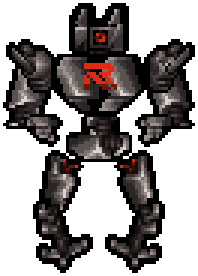
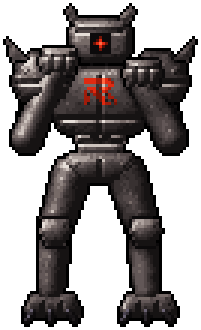
Robot: lit, gritty head-on render in a combat guard
Replaces the sprite collage. The robot is modelled as simple 3D forms
(capsule limbs, beveled armour plates, ball joints) in a combat guard,
lit by one upper-left light with specular and contact occlusion, then
quantised to a small grey/red palette with a black silhouette outline.
Grime gathers toward the feet; worn stencilled RealWare mark on the
chest; source features kept: box head with single red eye and twin
fins, spiked pauldrons, dark mechanical joints, clawed feet; 2px neck.

Claude-Session: https://claude.ai/code/session_01EWMNWsVqx69rUqnPkEUbPk

diff --git a/design/quasimorph_robot/build_robot.py b/design/quasimorph_robot/build_robot.py
@@ -1,160 +1,190 @@
-"""RealWare combat robot, head-on, built only from the source sprites' own pixels.
-Each posed segment samples the matching segment of a source sprite along its length and across
-its width (light side always upper-left), so streaks, speckle, seams, cables and joints are the
-source art. Recoloured brown->grey value for value at the end.
-usage: python3 build_robot.py <dir with n1..n5.png> <out dir>"""
+"""RealWare combat robot - head-on, combat guard, gritty lit pixel art.
+Forms are modelled as simple 3D primitives (capsules, spheres, beveled plates), lit by one light
+from the upper-left, then quantised to a small palette with a black silhouette outline.
+usage: python3 build_robot.py <out dir>"""
 import sys, math
-from PIL import Image, ImageOps
-SRC,OUT=sys.argv[1].rstrip('/')+'/',sys.argv[2].rstrip('/')+'/'
-def H(s): return tuple(int(s[i:i+2],16) for i in (0,2,4))+(255,)
-K=H('000000')
-BR=[H(c) for c in '261209 3d1f12 4f2c19 623921 704325 84512f aa6e46 cea173 e2cc98'.split()]
-BR_X=[H('502c1a'),H('8d5936')]
-GR=[H(c) for c in '110e0e 1d1717 261e1e 352d2d 514444'.split()]
-GN=[H(c) for c in '0b2b13 10381a 2a461b 465e24'.split()]
-OR=H('c27a2d'); RD=[H(c) for c in '380b04 701508 e02a11'.split()]
-def fam(c):
-    if c[3]==0: return None
-    if c==K: return 'k'
-    if c in BR or c in BR_X: return 'b'
-    if c in GR: return 'g'
-    return 'x'
-P={i:Image.open(f'{SRC}n{i}.png').convert('RGBA') for i in range(1,6)}
-def crop(im): return im.crop(im.getbbox())
-def twin(im):
-    """mirrored silhouette, source light direction restored inside every row run"""
-    M=ImageOps.mirror(im); w,h=im.size; m=M.load(); o=im.load(); out=M.copy(); q=out.load()
-    for y in range(h):
-        x=0
-        while x<w:
-            if m[x,y][3]==0: x+=1; continue
-            a=x
-            while x<w and m[x,y][3]: x+=1
-            b=x-1
-            for k in range(b-a+1):
-                src=o[w-1-b+k,y]; cur=m[a+k,y]
-                if fam(src)==fam(cur) and fam(cur) in ('b','g'): q[a+k,y]=src
-    return out
+import numpy as np
+from PIL import Image, ImageDraw
+OUT=sys.argv[1].rstrip('/')+'/'
+W,H=84,108
+def hx(s): return tuple(int(s[i:i+2],16) for i in (0,2,4))
+ARMOR=[hx(c) for c in '161313 211c1c 2c2626 383131 443c3c 524848 625757 766a67 8f8380 ad a19d'.replace('ad a19d','ada19d').split()]
+ARMOR+= [hx('cdc3bd'),hx('e6ded8')]
+METAL=[hx(c) for c in '0c0a0b 151214 1e1a1c 29242a 363038 4a4250 6a6272'.split()]
+RED=[hx(c) for c in '2a0805 4a0e07 701508 a01c0b e02a11 ff6a45'.split()]
+BLACK=(0,0,0)
 
-ARM=crop(P[1].rotate(90,expand=True))     # upright: shoulder top, elbow, forearm, fist bottom
-LEG=crop(P[3].rotate(-90,expand=True))    # upright: hip top, knee, shin, claw foot bottom
-PAD=crop(P[5]); HEAD=P[2]
+depth=np.full((H,W),-1e9); normal=np.zeros((H,W,3)); mat=np.zeros((H,W),dtype=int)-1
+pid=np.zeros((H,W),dtype=int)-1; paint=np.zeros((H,W),dtype=int)   # paint: 0 none, 1 groove, 2 lip, 3 logo, 4 eye
+_pid=[0]
+def put(x,y,z,n,m,p=None):
+    if 0<=x<W and 0<=y<H and z>depth[y,x]:
+        depth[y,x]=z; normal[y,x]=n; mat[y,x]=m; pid[y,x]=_pid[0] if p is None else p; paint[y,x]=0
+def nid(): _pid[0]+=1
 
-W,Hh=84,100
-cv=Image.new('RGBA',(W,Hh)); px=cv.load()
-
-def segment(src,r0,r1,Pp,Dp,width_scale=1.0):
-    """map source rows r0..r1 (upright, proximal at top) onto the posed segment Pp->Dp"""
-    ax,ay=Dp[0]-Pp[0],Dp[1]-Pp[1]; L=math.hypot(ax,ay); ax/=L; ay/=L
-    nx,ny=-ay,ax
-    if nx+ny<0: nx,ny=-nx,-ny                         # +n points away from the upper-left light
-    sw=src.width; sp=src.load(); half=sw/2*width_scale
-    xs=[Pp[0],Dp[0]]; ys=[Pp[1],Dp[1]]
-    for y in range(int(min(ys)-sw),int(max(ys)+sw)+1):
-        for x in range(int(min(xs)-sw),int(max(xs)+sw)+1):
-            dx,dy=x+0.5-Pp[0],y+0.5-Pp[1]
-            t=dx*ax+dy*ay; s=dx*nx+dy*ny
-            if not (0<=t<L) or not (-half<=s<half): continue
-            sx=int((s+half)/width_scale); sy=r0+int(t*(r1-r0)/L)
-            if 0<=sx<sw and r0<=sy<r1:
-                c=sp[sx,sy]
-                if c[3] and 0<=x<W and 0<=y<Hh: px[x,y]=c
-def paste(im,x,y): cv.alpha_composite(im,(x,y))
-def region_fill(src,rect,dst_box):
-    """fill a box by sampling a source rect (nearest), for plates the source set has no direct part for"""
-    sx0,sy0,sx1,sy1=rect; dx0,dy0,dx1,dy1=dst_box; sp=src.load()
-    out=Image.new('RGBA',(dx1-dx0,dy1-dy0)); op=out.load()
-    for y in range(dy1-dy0):
-        for x in range(dx1-dx0):
-            op[x,y]=sp[sx0+x*(sx1-sx0)//(dx1-dx0), sy0+y*(sy1-sy0)//(dy1-dy0)]
-    return out
-def shape(im,mask_fn):
-    q=im.load()
-    for y in range(im.height):
-        for x in range(im.width):
-            if not mask_fn(x,y): q[x,y]=(0,0,0,0)
-    return im
-def outline(im):
-    """1px black silhouette outline, as every source sprite has"""
-    q=im.load(); w,h=im.size; add=[]
-    for y in range(h):
-        for x in range(w):
-            if q[x,y][3]==0 and any(0<=x+dx<w and 0<=y+dy<h and q[x+dx,y+dy][3] for dx,dy in ((1,0),(-1,0),(0,1),(0,-1))):
-                add.append((x,y))
-    for p in add: q[p]=K
-    return im
+def capsule(P,D,r0,r1,z0,z1,m=0):
+    nid(); (px,py),(dx,dy)=P,D; L2=(dx-px)**2+(dy-py)**2
+    for y in range(int(min(py,dy)-max(r0,r1))-1,int(max(py,dy)+max(r0,r1))+2):
+        for x in range(int(min(px,dx)-max(r0,r1))-1,int(max(px,dx)+max(r0,r1))+2):
+            cx_,cy_=x+0.5,y+0.5
+            t=max(0,min(1,((cx_-px)*(dx-px)+(cy_-py)*(dy-py))/L2)) if L2 else 0.0
+            ax,ay=px+t*(dx-px),py+t*(dy-py); r=r0+(r1-r0)*t
+            ox,oy=cx_-ax,cy_-ay; d=math.hypot(ox,oy)
+            if d<r:
+                nz=math.sqrt(max(0,1-(d/r)**2)); s=d/r
+                n=np.array([ox/(d+1e-9)*s,oy/(d+1e-9)*s,nz])
+                put(x,y,z0+(z1-z0)*t+r*nz,n,m)
+def sphere(c,r,z,m=1): capsule(c,c,r,r,z,z,m)
+def plate(poly,z,thick,bevel,m=0,dome=0.0,grooves=(),bolts=()):
+    """flat-faced armour plate with a rounded bevel; normals from its height field"""
+    nid()
+    img=Image.new('L',(W,H)); ImageDraw.Draw(img).polygon(poly,fill=1); mask=np.array(img).astype(bool)
+    ys,xs=np.nonzero(mask)
+    if len(xs)==0: return
+    # distance to the plate edge (brute force on a small set)
+    edge=[(x,y) for x,y in zip(xs,ys) if not all(0<=x+dx<W and 0<=y+dy<H and mask[y+dy,x+dx] for dx,dy in ((1,0),(-1,0),(0,1),(0,-1)))]
+    E=np.array(edge,dtype=float)
+    hgt=np.full((H,W),np.nan)
+    cxm,cym=xs.mean(),ys.mean(); sx=max(1,(xs.max()-xs.min())/2); sy=max(1,(ys.max()-ys.min())/2)
+    for x,y in zip(xs,ys):
+        e=np.min(np.hypot(E[:,0]-x,E[:,1]-y))+0.5
+        prof=1.0 if e>=bevel else math.sqrt(max(0,1-(1-e/bevel)**2))
+        h=thick*prof - dome*(((x-cxm)/sx)**2+((y-cym)/sy)**2)
+        hgt[y,x]=h
+    for g in grooves:                                   # cut panel lines into the plate
+        for (x,y) in g:
+            if 0<=x<W and 0<=y<H and not np.isnan(hgt[y,x]): hgt[y,x]-=1.2
+    for (bx,by) in bolts:
+        if not np.isnan(hgt[by,bx]): hgt[by,bx]+=0.8
+    for x,y in zip(xs,ys):
+        def h(xx,yy): 
+            v=hgt[yy,xx] if 0<=xx<W and 0<=yy<H else np.nan
+            return hgt[y,x] if np.isnan(v) else v
+        gx=(h(x+1,y)-h(x-1,y))/2; gy=(h(x,y+1)-h(x,y-1))/2
+        n=np.array([-gx,-gy,1.0]); n/=np.linalg.norm(n)
+        put(x,y,z+hgt[y,x],n,m)
+    for g in grooves:
+        for (x,y) in g:
+            if 0<=x<W and 0<=y<H and pid[y,x]==_pid[0]: paint[y,x]=1
+            if 0<=x<W and 0<=y+1<H and pid[y+1,x]==_pid[0] and (x,y+1) not in g: paint[y+1,x]=2
+def hline(x0,x1,y): return [(x,y) for x in range(x0,x1+1)]
+def vline(x,y0,y1): return [(x,y) for y in range(y0,y1+1)]
+def mirror(poly,c): return [(2*c-x,y) for x,y in poly]
 
 cx=42
-def rows(im,r0,r1): return im.crop((0,r0,im.width,r1))
-# ---------------- legs: planted wide, kneecaps outward, source pixels untouched ----------------
-legL,legR=twin(LEG),LEG
-paste(legL,cx-21,52); paste(legR,cx+3,52)
-# ---------------- waist: the source elbow mechanism ----------------
-paste(outline(rows(ARM,15,21).crop((4,0,15,6))),cx-5,40)
-# ---------------- pelvis: source plate laid across ----------------
-pel=region_fill(ARM.rotate(90,expand=True),(4,3,24,12),(0,0,20,8))
-pel=outline(shape(pel,lambda x,y: abs(x-9.5)<=9.5-max(0,y-4)*1.5))
-paste(pel,cx-10,46)
-# ---------------- arms: upper arm + elbow hang from the shoulder ----------------
-armL,armR=twin(ARM),ARM
-uL,uR=rows(armL,0,22),rows(armR,0,22)
-paste(uL,cx-31,21); paste(uR,cx+15,21)
-# ---------------- chest: two 1:1 plates of the source upper-arm armour, each lit upper-left ----------------
-plate=rows(ARM,1,15).crop((0,0,15,14))
-chest=Image.new('RGBA',(30,18))
-chest.alpha_composite(plate,(0,0)); chest.alpha_composite(plate,(15,0))
-chest.alpha_composite(rows(ARM,1,5).crop((1,0,15,4)),(1,14)); chest.alpha_composite(rows(ARM,1,5).crop((1,0,15,4)),(15,14))
-chest=shape(chest,lambda x,y: abs(x-14.5)<=15-max(0,y-9)*1.1 and not (y<1 and abs(x-14.5)>12))
-cq=chest.load()
-for y in range(0,14):
-    if cq[14,y][3]: cq[14,y]=BR[0]
-    if cq[15,y][3]: cq[15,y]=K
-for x in range(0,30):
-    if cq[x,13][3]: cq[x,13]=BR[0]
+# ---------------- legs (back to front order doesn't matter: z-buffer) ----------------
+for s in (-1,1):
+    X=lambda x: cx+s*(x-cx) if s==1 else 2*cx-x if False else cx+s*(cx-x)*-1
+    hipx=cx+s*9; kx=cx+s*15; ax_=cx+s*16
+    sphere((hipx,57),4.5,3)
+    capsule((hipx,57),(kx,76),6.5,5.5,3,5)                         # thigh
+    sphere((kx,77),4,5)                                            # knee joint
+    plate([(kx-4,72),(kx+4,72),(kx+5,76),(kx+3,80),(kx-3,80),(kx-5,76)],z=11,thick=3,bevel=2,dome=0.8)  # kneecap
+    capsule((kx,79),(ax_,96),5.5,4.3,5,4)                           # shin
+    sphere((ax_,97),3,4)                                           # ankle
+    foot=[(ax_-7,97),(ax_+7,97),(ax_+9,101),(ax_+9,104),(ax_-9,104),(ax_-9,101)]
+    plate(foot,z=4,thick=4,bevel=2,dome=0.5,grooves=[vline(ax_-3,100,104),vline(ax_+3,100,104)])
+    for tx in (ax_-6,ax_,ax_+6):                                   # claw tips (source claw feet)
+        capsule((tx,103),(tx+ (tx-ax_)//3,106),1.4,0.8,7,7,m=1)
+# ---------------- pelvis / waist (flat, armoured, no belly) ----------------
+plate([(32,50),(52,50),(54,53),(48,59),(36,59),(30,53)],z=5,thick=5,bevel=2,dome=0.8,
+      grooves=[vline(cx,52,58)],bolts=[(34,53),(50,53)])
+capsule((cx,44),(cx,51),5,5,1,1,m=1)                                # spine housing
+plate([(34,43),(50,43),(49,50),(35,50)],z=5,thick=3,bevel=1.5,grooves=[hline(35,49,46)])   # abdominal plates
+# ---------------- chest ----------------
+chest=[(27,21),(57,21),(61,26),(60,35),(55,42),(48,45),(36,45),(29,42),(24,35),(23,26)]
+plate(chest,z=4,thick=7,bevel=3,dome=2.0,grooves=[vline(cx,24,44),hline(28,56,38)],
+      bolts=[(28,25),(56,25),(27,33),(57,33)])
 LOGO=["#########..","##########.","........##.",".###.####..","#.###.##...","##.###.##..","##..###.##.","##...###.##","##....###.#"]
-for j,row in enumerate(LOGO):
-    for i,ch in enumerate(row):
-        if ch=='#': cq[10+i,2+j]=RD[2] if j<7 else RD[1]
-paste(outline(chest),cx-15,20)
-# ---------------- head: source face panel, eye socket centred, ear fins; 2px neck ----------------
-hp=HEAD.load()
-face=Image.new('RGBA',(18,9)); fq=face.load()
-cols=list(range(8,13))+list(range(1,8))+list(range(13,19))
-for i,sx in enumerate(cols):
-    for j,sy in enumerate(range(6,15)):
-        c=hp[sx,sy]
-        if c[3]: fq[i,j]=c
-for j in range(9):
-    for i in (0,17):
-        if fq[i,j][3]: fq[i,j]=K
-head=Image.new('RGBA',(20,16)); head.alpha_composite(face,(1,6))
-for (sx0,sx1,dx) in ((10,15,2),(16,21,13)):
-    for y in range(1,7):
-        for x in range(sx0,sx1):
-            c=hp[x,y]
-            if c[3]: head.putpixel((dx+x-sx0,y-1),c)
-head=outline(crop(head))
-neck=outline(rows(ARM,16,18).crop((7,0,13,2)))
-paste(neck,cx-3,17)
-paste(head,cx-9,3)
-# ---------------- pauldrons ----------------
-paste(PAD,cx-30,15); paste(twin(PAD),cx+16,15)
-# ---------------- fists: forearms point at the viewer, knuckles forward just inside the elbows ----------------
-fist=crop(rows(ARM,30,ARM.height))
-paste(twin(fist),cx-25,40); paste(fist,cx+13,40)
+logo_px=[(cx-5+i,25+j) for j,row in enumerate(LOGO) for i,ch in enumerate(row) if ch=='#']
+chest_id=_pid[0]
+# ---------------- head ----------------
+capsule((cx,18),(cx,21),3.5,3.5,2,2,m=1)                           # 2px neck
+plate([(34,5),(50,5),(52,8),(52,16),(49,19),(35,19),(32,16),(32,8)],z=7,thick=6,bevel=2.5,dome=1.0,
+      grooves=[hline(34,50,9)])
+head_id=_pid[0]
+for s in (-1,1):                                                   # twin fins (the source ear fins)
+    fx=cx+s*6
+    plate([(fx-1,6),(fx+s*4,1),(fx+s*5,2),(fx+2*s+ (1 if s>0 else -1),7)],z=8,thick=2,bevel=1)
+eye_c=(cx,13)
+# ---------------- arms: combat guard ----------------
+for s,fist_y in ((-1,17),(1,21)):
+    shx=cx+s*18; ex=cx+s*24; fx=cx+s*14
+    sphere((shx,25),4.5,1)                                          # shoulder joint
+    capsule((shx,26),(ex,44),5.3,4.6,1,3)                           # upper arm
+    sphere((ex,45),4,4)                                            # elbow
+    capsule((ex,45),(fx,fist_y+5),5.2,4.4,4,12)                     # forearm, raised toward the viewer
+    plate([(fx-5,fist_y-2),(fx+5,fist_y-2),(fx+6,fist_y+2),(fx+5,fist_y+6),(fx-5,fist_y+6),(fx-6,fist_y+2)],
+          z=14,thick=4,bevel=2,dome=0.8,grooves=[hline(fx-5,fx+5,fist_y),vline(fx-2,fist_y+1,fist_y+5),vline(fx+2,fist_y+1,fist_y+5)])
+    # pauldron with the source spike
+    pc=cx+s*19
+    pd=[(pc-9,20),(pc-4,16),(pc+4,16),(pc+9,20),(pc+10,27),(pc+7,32),(pc-7,32),(pc-10,27)]
+    plate(pd,z=8,thick=6,bevel=3,dome=2.0,grooves=[hline(pc-9,pc+9,26)],bolts=[(pc-6,22),(pc+6,22)])
+    sp=[(pc+s*6,18),(pc+s*12,12),(pc+s*10,19)]
+    plate(sp,z=12,thick=2,bevel=1)
 
-outline(cv)
-GREY={'261209':'2b2626','3d1f12':'3a3333','4f2c19':'4a4242','502c1a':'4a4242','623921':'5a5151',
-      '704325':'675d5c','84512f':'7a706e','8d5936':'807573','aa6e46':'9c908c','cea173':'bfb5af','e2cc98':'ddd5cf',
-      '0b2b13':'380b04','10381a':'380b04','2a461b':'701508','465e24':'701508','c27a2d':'e02a11'}
-GREY={H(k):H(v) for k,v in GREY.items()}
-for y in range(Hh):
+# ---------------- shading ----------------
+L=np.array([-0.55,-0.65,0.55]); L/=np.linalg.norm(L); Hv=L+np.array([0,0,1.0]); Hv/=np.linalg.norm(Hv)
+rng=np.random.default_rng(7)
+grime=np.zeros((H,W))
+for sc,amp in ((8,0.16),(3,0.07)):                                  # blotchy grime
+    g=rng.random((H//sc+2,W//sc+2)); gi=np.array(Image.fromarray((g*255).astype(np.uint8)).resize((W+sc,H+sc),Image.BILINEAR))[:H,:W]/255
+    grime+= (gi-0.5)*2*amp
+grime-= np.linspace(0,0.16,H)[:,None]                               # dirt gathers toward the feet
+speck=rng.random((H,W))<0.10
+scuff=rng.random((H,W))<0.025
+img=np.zeros((H,W,3),dtype=np.uint8); alpha=np.zeros((H,W),dtype=bool)
+for y in range(H):
     for x in range(W):
-        c=px[x,y]
-        if c[3] and c in GREY: px[x,y]=GREY[c]
-o=crop(cv); out=Image.new('RGBA',(o.width+2,o.height+2)); out.alpha_composite(o,(1,1))
-out.save(OUT+'robot_1x.png')
-out.resize((out.width*3,out.height*3),Image.NEAREST).save(OUT+'robot_3x.png')
-bg=Image.new('RGBA',out.size,(200,200,200,255)); bg.alpha_composite(out)
-bg.resize((out.width*6,out.height*6),Image.NEAREST).save(OUT+'robot_6x_preview.png')
-print(out.size)
+        if mat[y,x]<0: continue
+        alpha[y,x]=True
+        n=normal[y,x]; lam=max(0,n@L); spec=max(0,n@Hv)**18
+        # ambient occlusion from nearby surfaces in front
+        occ=0
+        for dy in (-2,-1,0,1,2):
+            for dx in (-2,-1,0,1,2):
+                yy,xx=y+dy,x+dx
+                if 0<=yy<H and 0<=xx<W and mat[yy,xx]>=0 and depth[yy,xx]>depth[y,x]+2: occ+=1
+        v=0.03+0.74*lam+0.42*spec-0.03*occ+grime[y,x]-(0.08 if speck[y,x] else 0)+(0.14 if scuff[y,x] and lam>0.4 else 0)
+        if mat[y,x]==1: v=0.05+0.7*lam+0.7*spec-0.03*occ+grime[y,x]*0.6
+        if paint[y,x]==1: v-=0.28
+        if paint[y,x]==2: v+=0.12
+        ramp=ARMOR if mat[y,x]==0 else METAL
+        if pid[y,x]==chest_id and (x,y) in logo_px:                 # stencilled RealWare mark, takes the light & grime
+            ramp=RED[1:6]; v=v*0.9+0.12
+            if speck[y,x] and grime[y,x]<-0.05: ramp=ARMOR; v=0.12   # worn stencil
+        img[y,x]=ramp[int(max(0,min(0.999,v))*len(ramp))]
+# eye: recessed socket with the source cross-ring glow
+ex,ey=eye_c
+for y in range(ey-3,ey+4):
+    for x in range(ex-3,ex+4):
+        if abs(x-ex)<=3 and abs(y-ey)<=3: img[y,x]=METAL[0]
+EYE=[".R.","RRR",".R."]
+for j in range(-2,3):
+    for i in range(-2,3):
+        d=abs(i)+abs(j)
+        if d==2 and (i==0 or j==0): img[ey+j,ex+i]=RED[2]
+        if d==1: img[ey+j,ex+i]=RED[4]
+img[ey,ex]=RED[5]; img[ey-1,ex-1]=RED[1]; img[ey+1,ex+1]=RED[1]
+# internal separation: dark line where a nearer part overlaps
+out=img.copy()
+for y in range(H):
+    for x in range(W):
+        if not alpha[y,x]: continue
+        for dx,dy in ((1,0),(-1,0),(0,1),(0,-1)):
+            yy,xx=y+dy,x+dx
+            if 0<=yy<H and 0<=xx<W and alpha[yy,xx] and pid[yy,xx]!=pid[y,x] and depth[yy,xx]>depth[y,x]+1.5:
+                out[y,x]=BLACK if depth[yy,xx]>depth[y,x]+4 else METAL[0]; break
+# black silhouette outline
+rgba=np.zeros((H,W,4),dtype=np.uint8); rgba[...,:3]=out; rgba[...,3]=alpha*255
+for y in range(H):
+    for x in range(W):
+        if not alpha[y,x] and any(0<=y+dy<H and 0<=x+dx<W and alpha[y+dy,x+dx] for dx,dy in ((1,0),(-1,0),(0,1),(0,-1))):
+            rgba[y,x]=(0,0,0,255)
+im=Image.fromarray(rgba,'RGBA'); im=im.crop(im.getbbox())
+o=Image.new('RGBA',(im.width+2,im.height+2)); o.alpha_composite(im,(1,1))
+o.save(OUT+'robot_1x.png')
+o.resize((o.width*3,o.height*3),Image.NEAREST).save(OUT+'robot_3x.png')
+bg=Image.new('RGBA',o.size,(200,200,200,255)); bg.alpha_composite(o)
+bg.resize((o.width*6,o.height*6),Image.NEAREST).save(OUT+'robot_6x_preview.png')
+print(o.size)
